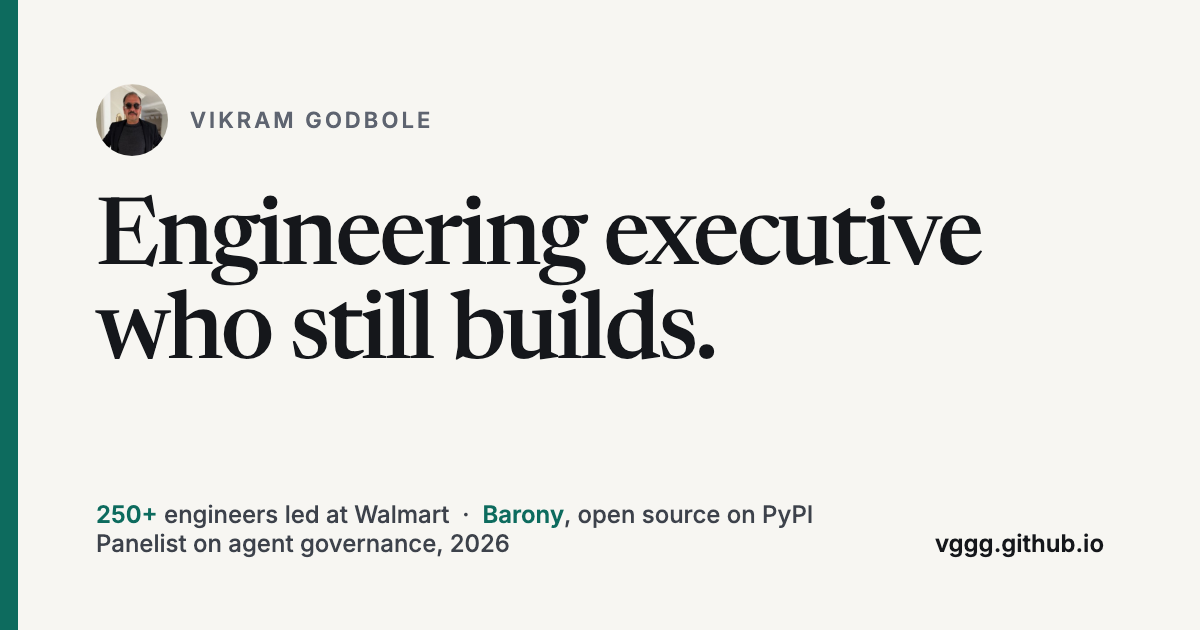
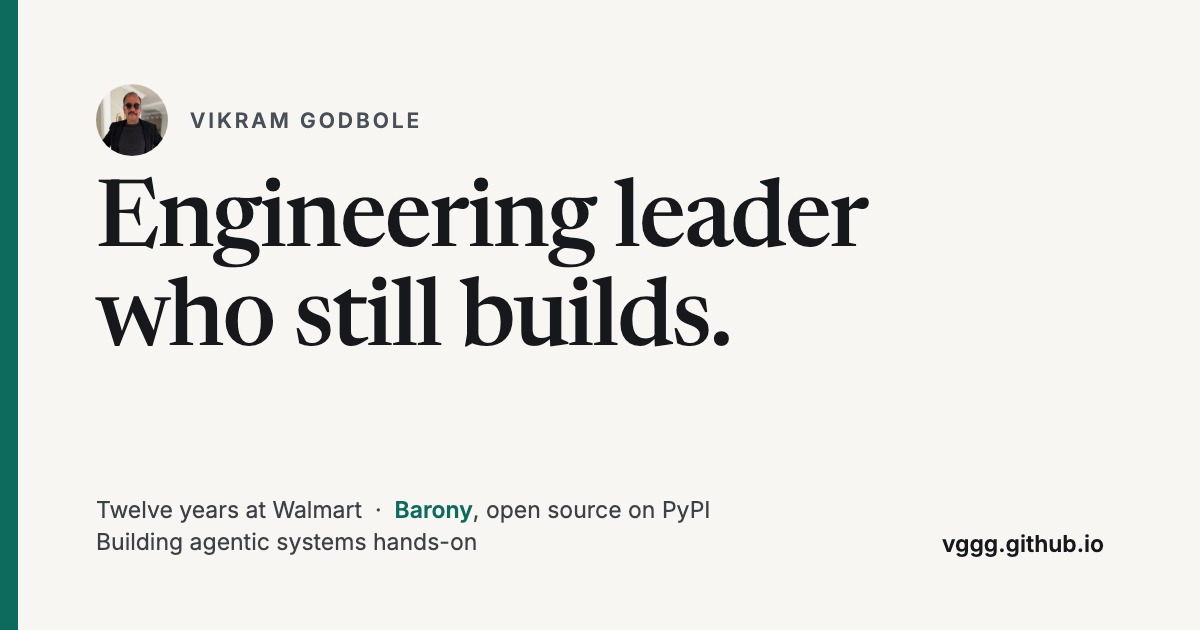
copy: tone down hero; drop stacked scale claims above the fold
Headline "executive" -> "leader"; hero names the last role instead of
stacking 250+ engineers and five business lines; drops "I speak on how to
govern them"; glance panel trimmed to Last role / Building / Recent panels;
meta and share image match. Scale figures stay in the Leadership section.

Claude-Session: https://claude.ai/code/session_0125oXKi1QufbPe6Y7agXa9G

diff --git a/index.html b/index.html
@@ -3,8 +3,8 @@
 <head>
 <meta charset="utf-8">
 <meta name="viewport" content="width=device-width, initial-scale=1">
-<title>Vikram Godbole | Engineering executive who still builds</title>
-<meta name="description" content="Vikram Godbole: engineering executive who still builds. Led 250+ engineers on Walmart Commerce Platform and served as single-threaded technology owner for five walmart.com business lines. Now builds agentic systems hands-on, including Barony, open source on PyPI, and speaks on agent governance.">
+<title>Vikram Godbole | Engineering leader who still builds</title>
+<meta name="description" content="Vikram Godbole: engineering leader who still builds. Twelve years at Walmart, most recently Senior Director of Software Engineering. Now builds agentic systems hands-on, including Barony, an open-source governance framework for AI coding agents.">
 <link rel="canonical" href="https://vggg.github.io/">
 <meta name="color-scheme" content="light dark">
 <meta name="theme-color" content="#f7f6f2" media="(prefers-color-scheme: light)">
@@ -12,15 +12,15 @@
 <meta property="og:site_name" content="Vikram Godbole">
 <meta property="og:type" content="website">
 <meta property="og:url" content="https://vggg.github.io/">
-<meta property="og:title" content="Vikram Godbole | Engineering executive who still builds">
-<meta property="og:description" content="Ran a 250+ engineer platform organization at Walmart. Now builds agentic systems hands-on, including Barony, open source on PyPI, and speaks on agent governance.">
+<meta property="og:title" content="Vikram Godbole | Engineering leader who still builds">
+<meta property="og:description" content="Twelve years at Walmart, most recently Senior Director of Software Engineering. Now builds agentic systems hands-on, including Barony, open source on PyPI.">
 <meta property="og:image" content="https://vggg.github.io/assets/og.png">
 <meta property="og:image:width" content="1200">
 <meta property="og:image:height" content="630">
-<meta property="og:image:alt" content="Vikram Godbole, engineering executive who still builds">
+<meta property="og:image:alt" content="Vikram Godbole, engineering leader who still builds">
 <meta name="twitter:card" content="summary_large_image">
-<meta name="twitter:title" content="Vikram Godbole | Engineering executive who still builds">
-<meta name="twitter:description" content="Ran a 250+ engineer platform organization at Walmart. Now builds agentic systems hands-on and speaks on agent governance.">
+<meta name="twitter:title" content="Vikram Godbole | Engineering leader who still builds">
+<meta name="twitter:description" content="Twelve years at Walmart, most recently Senior Director of Software Engineering. Now builds agentic systems hands-on.">
 <meta name="twitter:image" content="https://vggg.github.io/assets/og.png">
 <link rel="icon" href="assets/favicon.svg" type="image/svg+xml">
 <link rel="apple-touch-icon" href="assets/apple-touch-icon.png">
@@ -52,9 +52,9 @@
     <div class="wrap hero-grid">
       <div class="hero-copy">
         <img class="portrait" src="assets/vikram.jpg" alt="Portrait of Vikram Godbole" width="200" height="200">
-        <h1 id="hero-h"><span class="name">Vikram Godbole</span><span class="headline">Engineering executive who still builds.</span></h1>
-        <p class="proof">Twelve years at Walmart, from individual contributor to leading <strong>250+ engineers</strong> on Walmart Commerce Platform and serving as single-threaded technology owner for <strong>five walmart.com business lines</strong>.</p>
-        <p class="proof">Now I build agentic systems hands-on, including <strong>Barony</strong>, an open-source governance framework for AI coding agents, and I speak on how to govern them.</p>
+        <h1 id="hero-h"><span class="name">Vikram Godbole</span><span class="headline">Engineering leader who still builds.</span></h1>
+        <p class="proof">Twelve years at Walmart, most recently as Senior Director of Software Engineering on Walmart Commerce Platform.</p>
+        <p class="proof">These days I build agentic systems hands-on, mostly in the open. <strong>Barony</strong>, my governance framework for AI coding agents, is on PyPI.</p>
         <div class="cta">
           <a class="btn btn-primary" href="mailto:vikramggg@hotmail.com">Email me</a>
           <a class="btn" href="https://www.linkedin.com/in/vikramgodbole" rel="me">Résumé on LinkedIn</a>
@@ -65,10 +65,9 @@
       <aside class="glance" aria-labelledby="glance-h">
         <h2 id="glance-h" class="kicker">At a glance</h2>
         <dl>
-          <div><dt>Led</dt><dd>Walmart Commerce Platform, 250+ engineers across the U.S. and India</dd></div>
-          <div><dt>Tech owner</dt><dd>Five walmart.com business lines, ~$150M GMV</dd></div>
-          <div><dt>Building</dt><dd>Barony, open source and on PyPI, plus a claims-verification engine</dd></div>
-          <div><dt>Speaking</dt><dd>Panelist at AI Realized (SF Tech Week) and the Silicon Valley AI Summit, 2026</dd></div>
+          <div><dt>Last role</dt><dd>Senior Director, Walmart Commerce Platform</dd></div>
+          <div><dt>Building</dt><dd>Barony (open source) and a claims-verification engine</dd></div>
+          <div><dt>Recent panels</dt><dd>AI Realized (SF Tech Week) and the Silicon Valley AI Summit, 2026</dd></div>
         </dl>
       </aside>
     </div>
@@ -275,7 +274,7 @@
     <div class="wrap">
       <header class="section-head">
         <p class="kicker">Where I've led</p>
-        <h2 id="leadership-h">Twelve years at Walmart, engineer to executive</h2>
+        <h2 id="leadership-h">Twelve years at Walmart</h2>
         <p class="role-line">Senior Director of Software Engineering, Walmart (2023 to 2026): Walmart Commerce Platform, then Local and Specialty Marketplace.</p>
         <p class="section-lede">Platform scale, lean single-threaded ownership and AI in production. My organizations delivered the work below; the verbs say what was mine.</p>
       </header>
